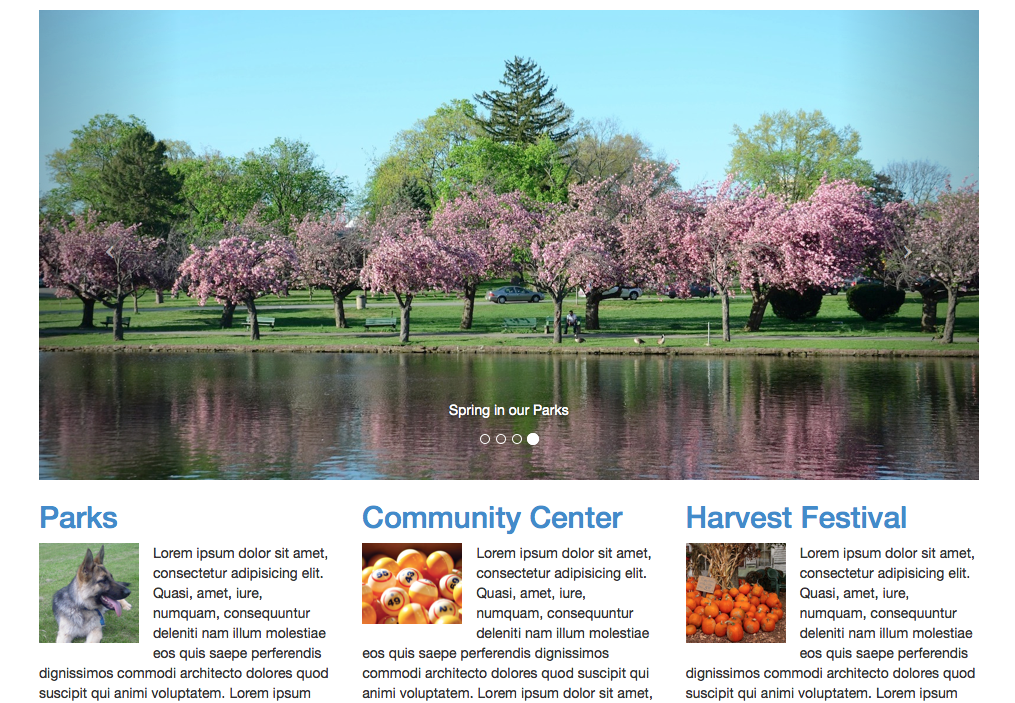
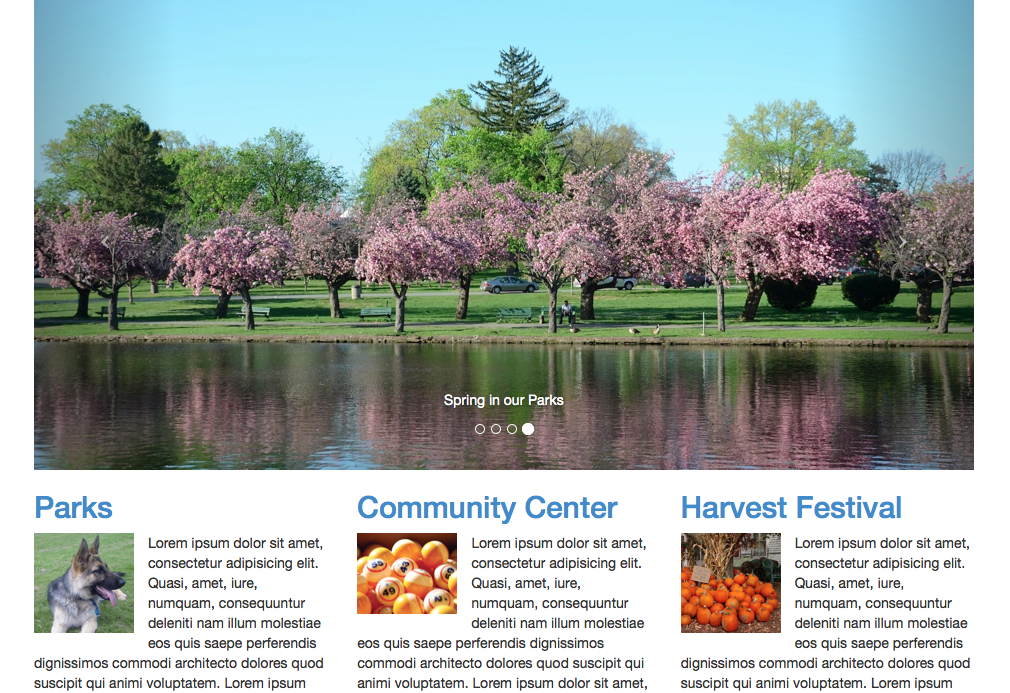
trimmed non-navbar shots to reflect that carousel is right up against the top of the viewport; also removed padding around screen shots so that students don't get confused thinking that there should be a margin when there really isn't.

diff --git a/labs/css/labs.css b/labs/css/labs.css
@@ -30,7 +30,6 @@ figure figcaption {
 }
 .screen-shot {
 	border: 1px dotted #CCC;
-	padding: 10px;
 }
 
 video.responsive {
